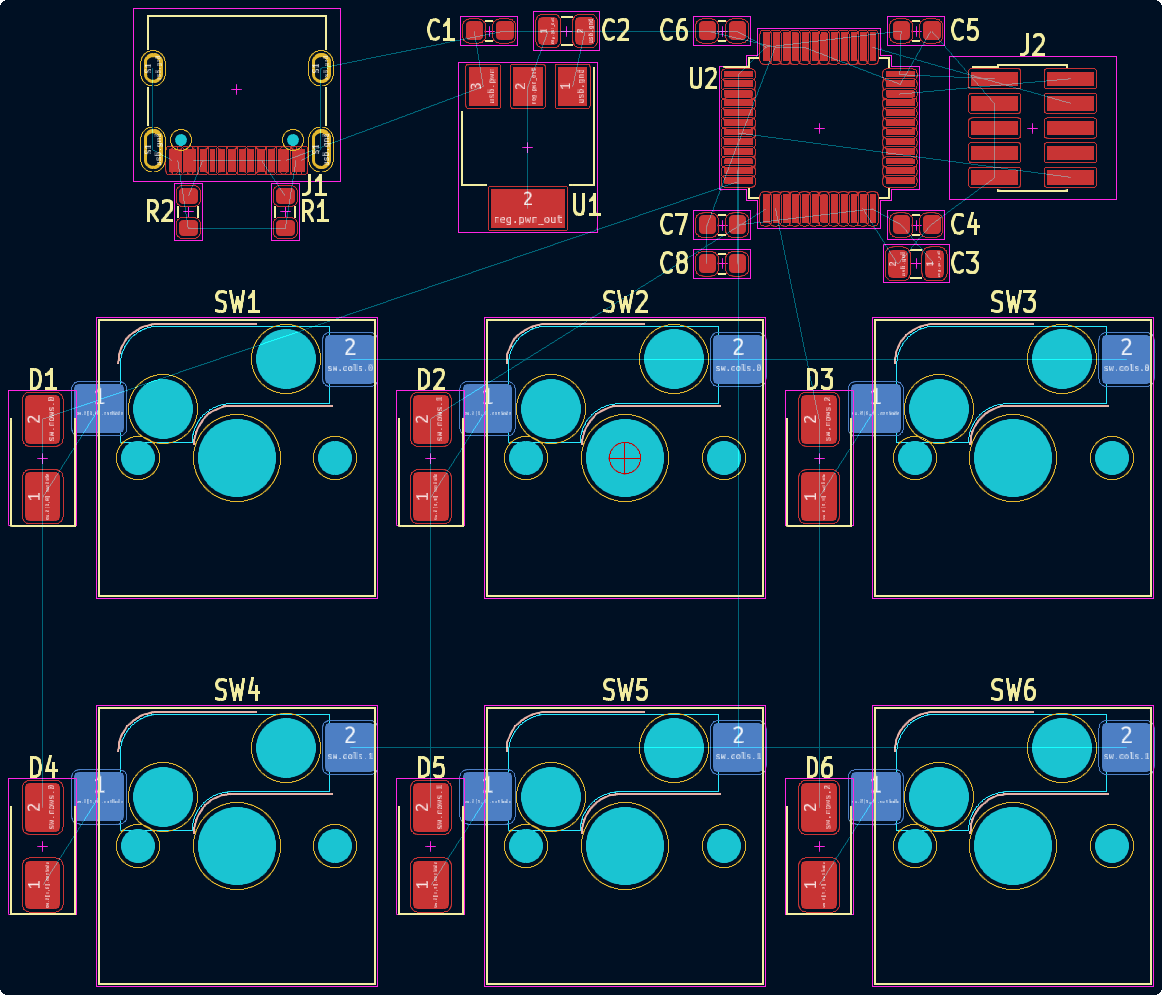
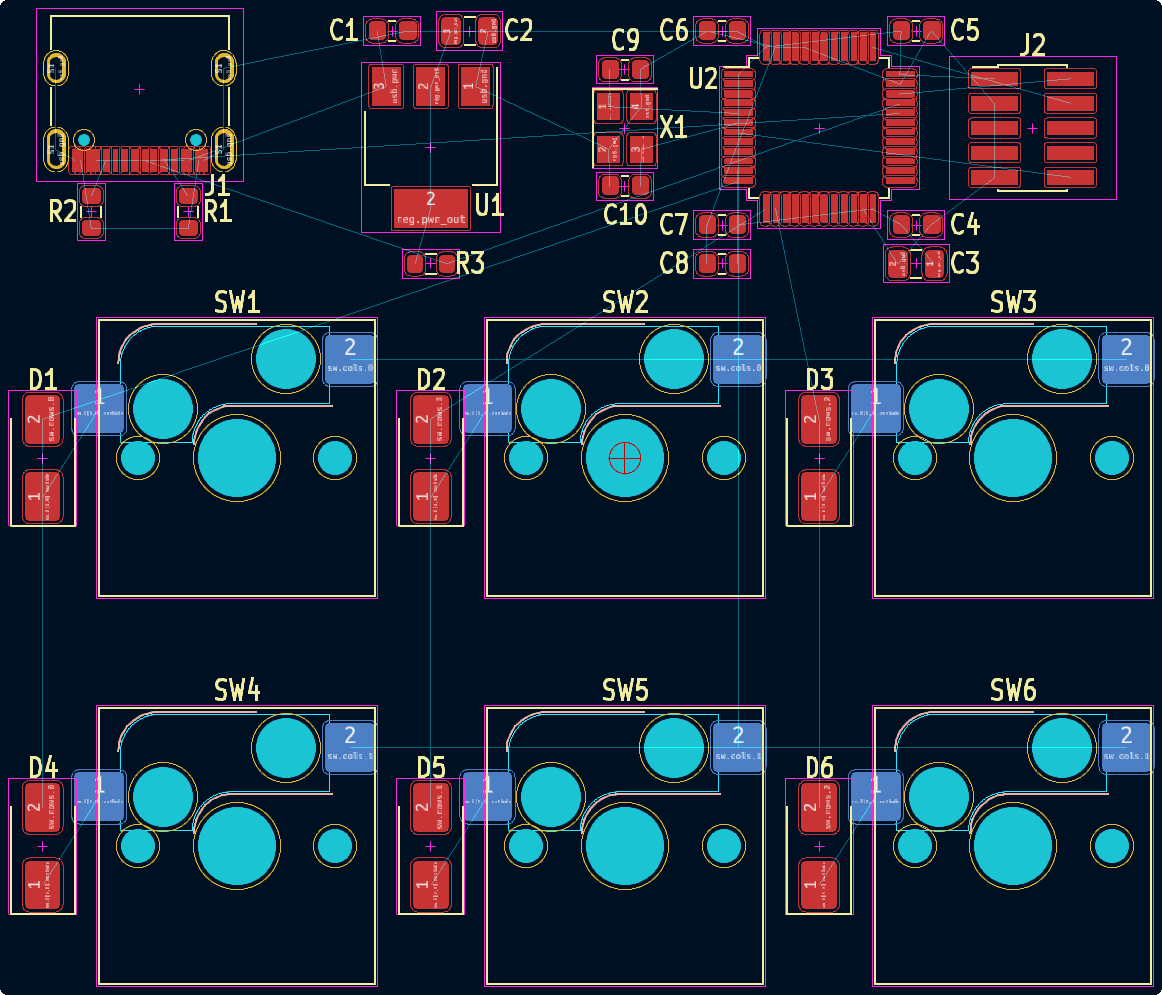
wip

Changed region(s): [[0.031, 0.0, 0.5886, 0.2804], [0.1239, 0.0312, 0.1549, 0.0935], [0.0929, 0.0, 0.1239, 0.0312]]

diff --git a/examples/test_keyboard.py b/examples/test_keyboard.py
@@ -27,6 +27,7 @@ class Keyboard(SimpleBoardTop):
             ImplicitConnect(self.reg.gnd, [Common]),
     ) as imp:
       self.mcu = imp.Block(Stm32f103_48())
+      self.connect(self.usb.usb, self.mcu.usb.request())
 
       self.sw = self.Block(SwitchMatrix(nrows=3, ncols=2))
       self.connect(self.sw.cols, self.mcu.gpio.request_vector())
